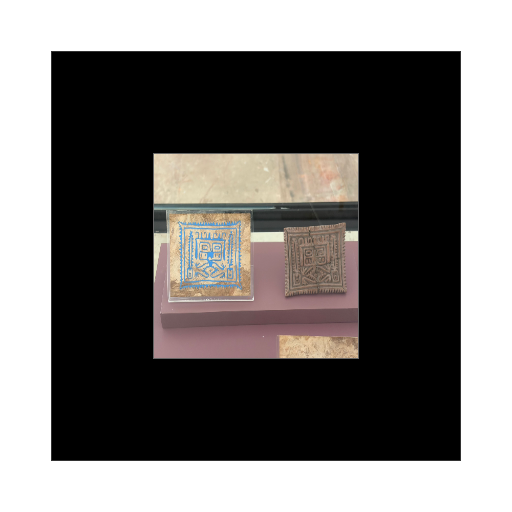
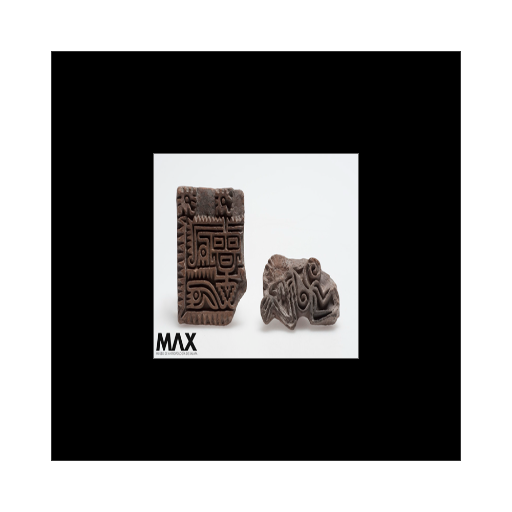
sellos2

Changed region(s): [[0.2812, 0.2812, 0.7188, 0.7188]]

diff --git a/Sellos.html b/Sellos.html
@@ -146,7 +146,7 @@
         <h1>Sello (Centro de Veracruz)</h1>
         <figure>
             <img
-                src="imagenes\sellos.jpg"
+                src="imagenes\sellos.png"
                 alt="Sello de barro Sala 5"
                 width="350"
                 height="350"
